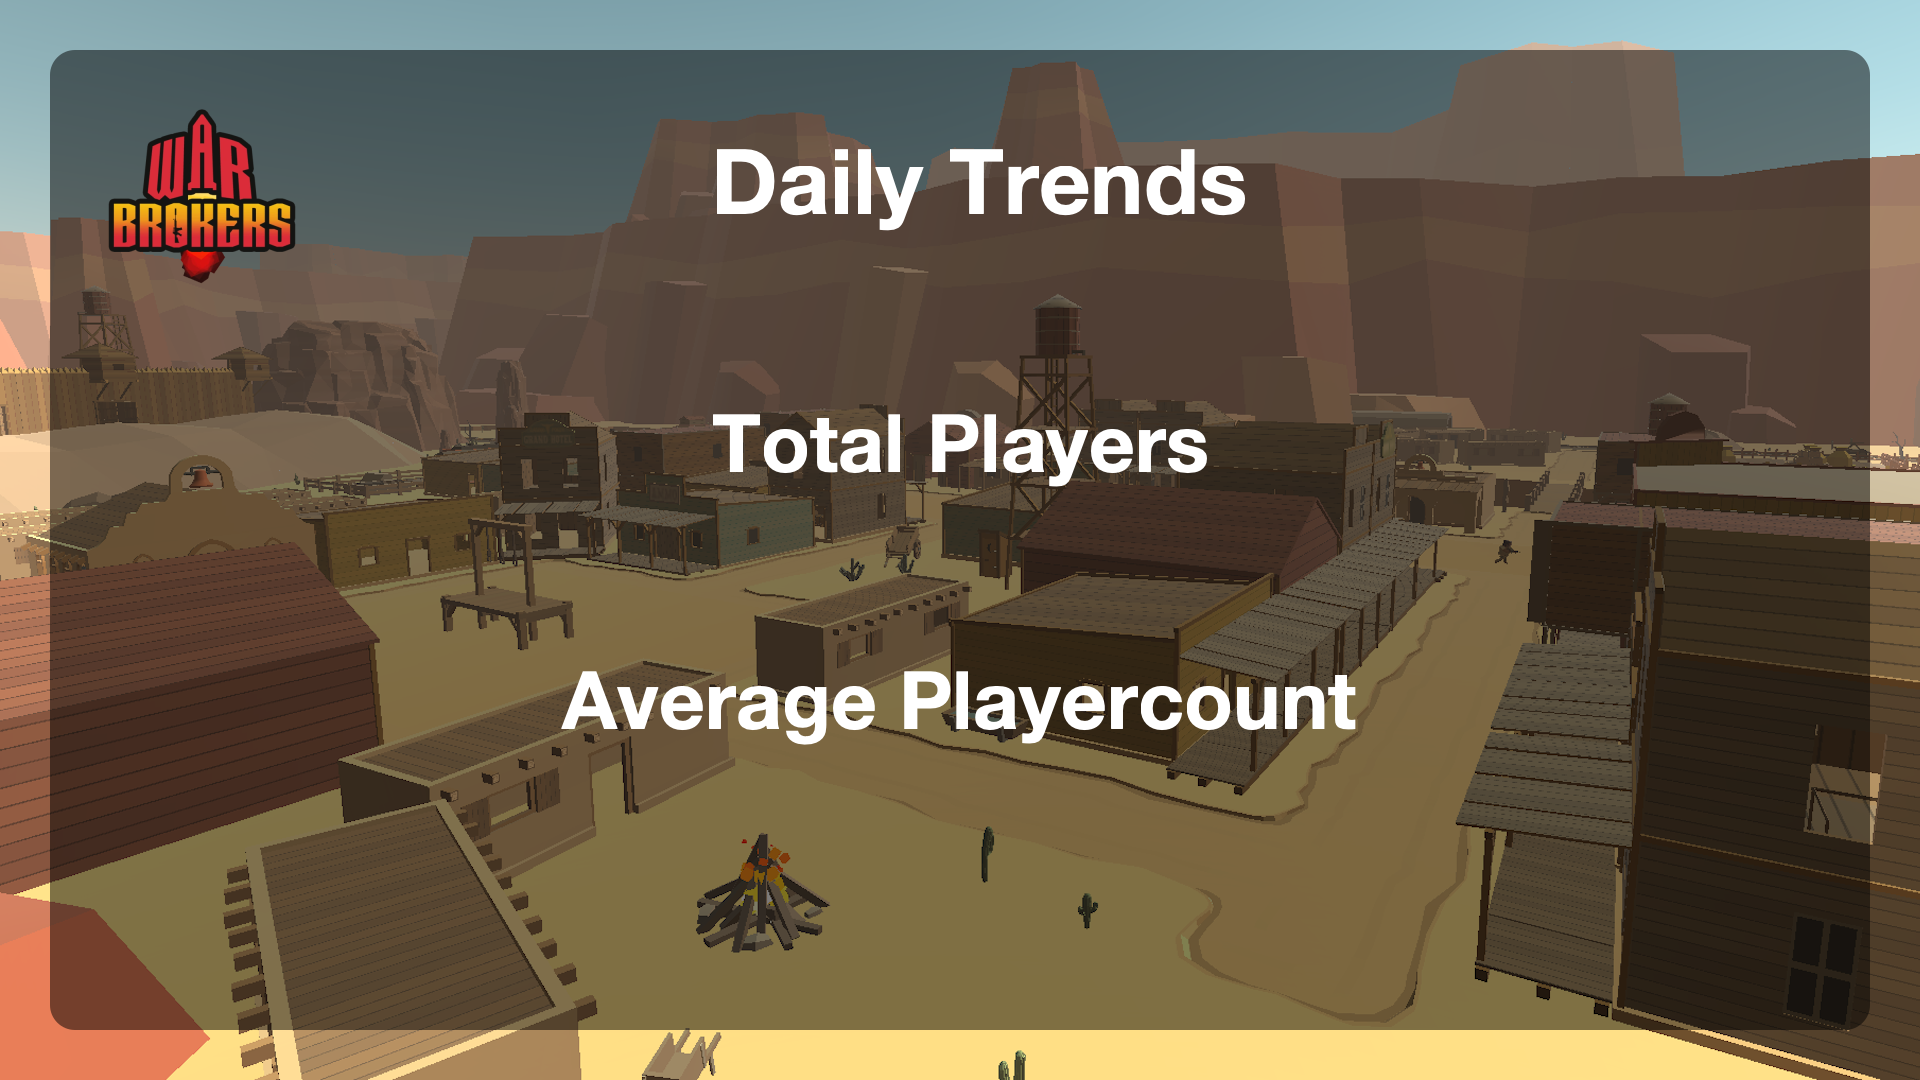
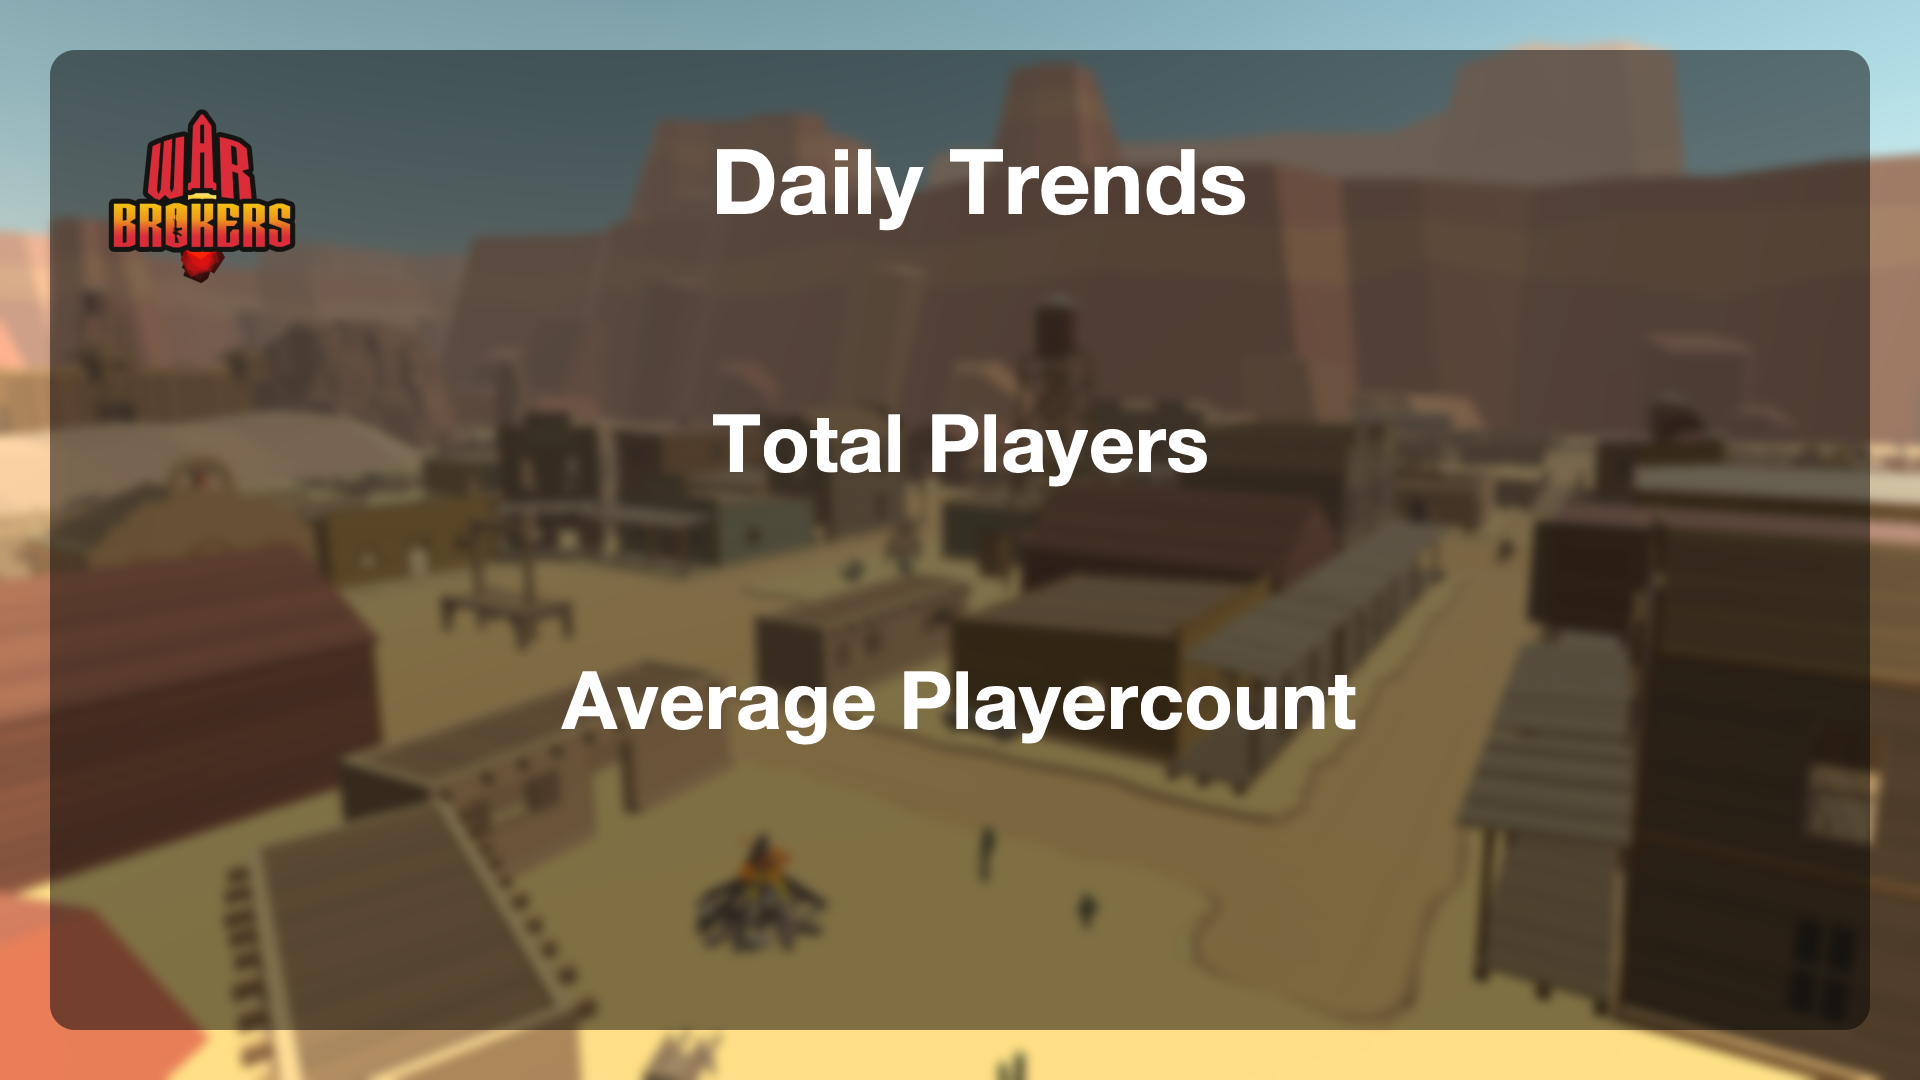
Update backgrounds again

diff --git a/create_background/warbrokers.py b/create_background/warbrokers.py
@@ -1,5 +1,6 @@
-import sys, os
+import sys, os, io
 import cairo
+from PIL import Image, ImageFilter
 
 sys.path.append(os.path.abspath(os.path.join(os.path.dirname(__file__), '..')))
 
@@ -15,9 +16,19 @@ class colours:
     white = (1,1,1)
 
 def create_stats_card(file_path, file_name):
-    cairo_surface = cairo.ImageSurface.create_from_png(file_path)
+    # PIL: Open and blur the image
+    pil_image = Image.open(file_path)
+    blurred_pil = pil_image.filter(ImageFilter.GaussianBlur(radius=5.0))
 
-    ctx = cairo.Context(cairo_surface)
+    # Convert the blurred PIL image into a format Cairo can use
+    with io.BytesIO() as output:
+        blurred_pil.save(output, format="PNG")
+        output.seek(0)
+        cairo_surface = cairo.ImageSurface.create_from_png(output)
+
+        ctx = cairo.Context(cairo_surface)
+
+
     background_size = (SIZE[0]-100, SIZE[1]-100)
     ctx.set_source_rgba(0, 0, 0, 1)  # Fully opaque black
     draw_rounded_rectangle(ctx, (SIZE[0]-background_size[0])/2, (SIZE[1]-background_size[1])/2, background_size[0], background_size[1], 25)

diff --git a/create_background/trends.py b/create_background/trends.py
@@ -1,5 +1,6 @@
-import sys, os
+import sys, os, io
 import cairo
+from PIL import Image, ImageFilter
 
 sys.path.append(os.path.abspath(os.path.join(os.path.dirname(__file__), '..')))
 
@@ -17,9 +18,18 @@ class colours:
     red = (1, 0, 0)
 
 def create_stats_card(file_path, file_name):
-    cairo_surface = cairo.ImageSurface.create_from_png(file_path)
+    # PIL: Open and blur the image
+    pil_image = Image.open(file_path)
+    blurred_pil = pil_image.filter(ImageFilter.GaussianBlur(radius=5.0))
 
-    ctx = cairo.Context(cairo_surface)
+    # Convert the blurred PIL image into a format Cairo can use
+    with io.BytesIO() as output:
+        blurred_pil.save(output, format="PNG")
+        output.seek(0)
+        cairo_surface = cairo.ImageSurface.create_from_png(output)
+
+        ctx = cairo.Context(cairo_surface)
+
     background_size = (SIZE[0]-100, SIZE[1]-100)
     ctx.set_source_rgba(0, 0, 0, 1)  # Fully opaque black
     draw_rounded_rectangle(ctx, (SIZE[0]-background_size[0])/2, (SIZE[1]-background_size[1])/2, background_size[0], background_size[1], 25)
